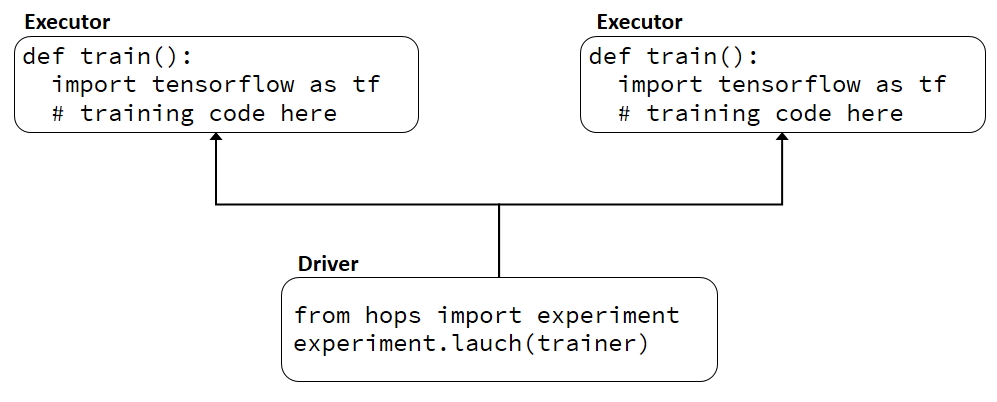
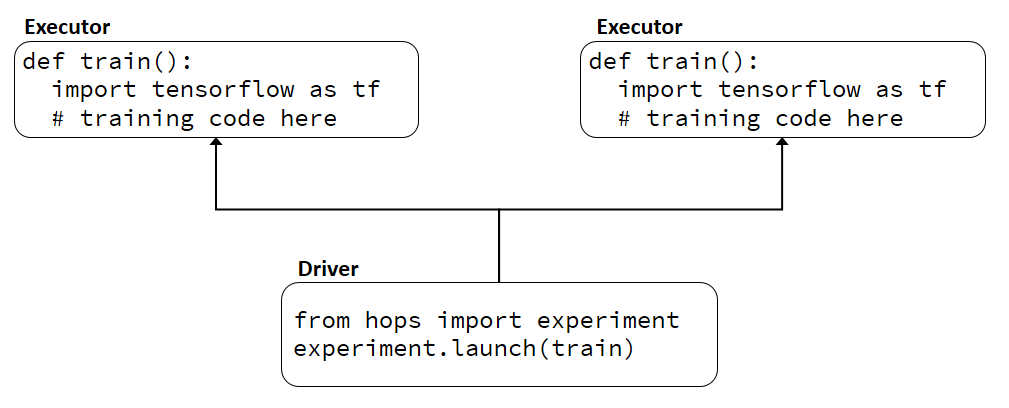
cleanup

diff --git a/README.rst b/README.rst
@@ -71,7 +71,7 @@ If you want to run a Python program, e.g.,  to train a neural network on a GPU o
     :scale: 75 %
     :figclass: align-center
 
-The good news is that all you will need to do to get started is to move your code inside a function, see the code snippet below. You need to define a function (we called the function *train*, but it can have any name) - and the code inside the function will get run on Executors (containers). To invoke that function (*train*) from the Driver (the main part of your Python program), you just use the Experiment API in hopsml. You can launch a single Executor with *experiment.launch(<fn_name>)*.  Other possible ways to call *train* on many Executors are *experiment.grid_search(<fn_name>)* for hyperparameter optimization, and *experiment.collective_all_reduce(<fn_name>)* for distributed training.
+The good news is that all you will need to do to get started is to move your code inside a function. In the code snippet below, the Executor code is on lines 1-3 and the Driver code is on lines 5-7. For the Executor, you define a function (e.g., *train*, but the function can have any name).  The code in the function will get run on Executors (containers). To invoke the Executor function (*train*) from the Driver (the main part of your Python program), you use the Experiment API. Launch a single Executor with *experiment.launch(<fn_name>)*.  Launch many Executors with *experiment.grid_search(<fn_name>)* for hyperparameter optimization, and *experiment.collective_all_reduce(<fn_name>)* for distributed training.
 
 
 .. code-block:: python
